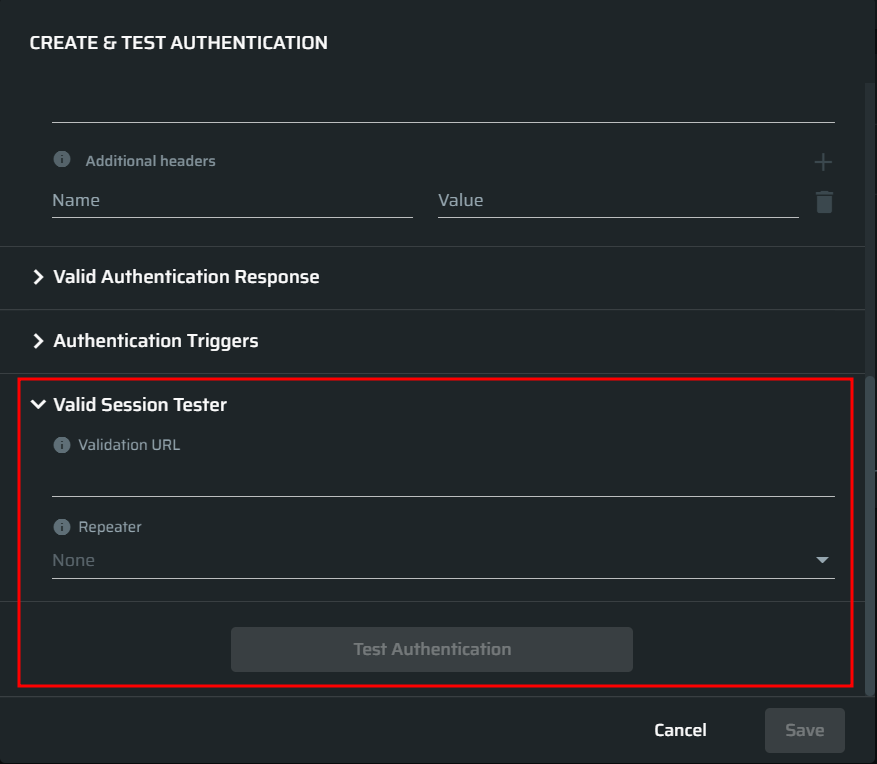
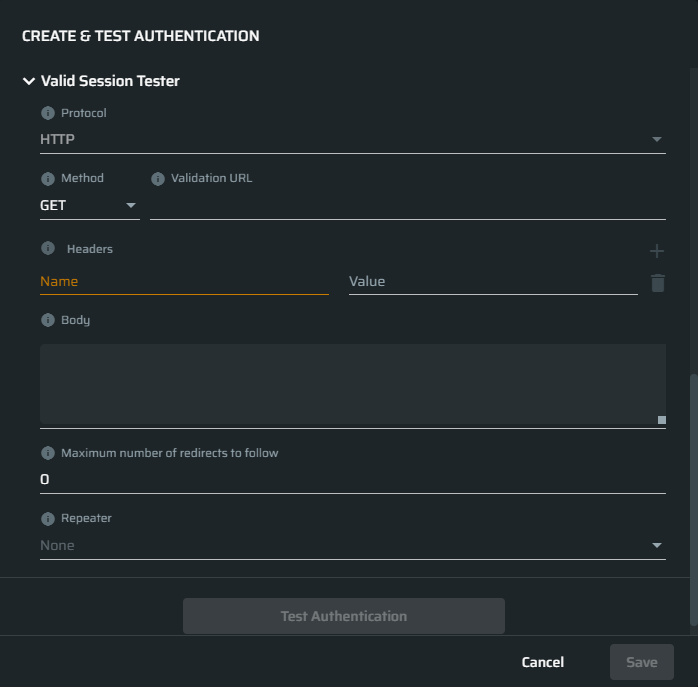
updated session tester

diff --git a/docs/guide/np-web-ui/scanning/managing-authentications/types/custom-auth.md b/docs/guide/np-web-ui/scanning/managing-authentications/types/custom-auth.md
@@ -213,8 +213,7 @@ In this section, select the options you want to use during the application scann
 
 The preliminary testing helps you verify if the authentication object has been configured correctly.
 
- ![test-authentication](../media/custom-session-tester.png ':size=45%') 
-
+ ![test-authentication](../media/test-authentication.png ':size=45%') 
 
 <table id="simple-table">
   <tr>
@@ -222,15 +221,51 @@ The preliminary testing helps you verify if the authentication object has been c
     <th width="75%"><b>Guidelines</b></th>
   </tr>
   <tr>
-    <td width="25%"><b>Validation URL </b></td>
+    <td width="25%"><b>Protocol </b></td>
     <td width="75%" >
-       Enter the URL of the authenticated resource to be accessed by NexPloit. 
+       Currently only the HTTP protocol is supported. 
     </td>
   </tr>
   <tr>
-    <td width="25%"><b>Repeater  </b></td>
+    <td width="25%"><b>Method </b></td>
     <td width="75%" >
-       If you use a local Repeater to reach the scan target, from the <b>Repeater</b> dropdown list, select the Repeater you need for the scan.   
+       Select the HTTP method of an active tester end-point (authenticated resource). 
+    </td>
+  </tr>
+  <tr>
+    <td width="25%"><b>Validation URL </b></td>
+    <td width="75%" >
+       Enter the URL of the authenticated (protected) resource to test if the authentication scenario is configured correctly. The validation URL should be different from the authentication URL.   
+    </td>
+  </tr>
+  <tr>
+    <td width="25%"><b>Header name </b></td>
+    <td width="75%" >
+       Select an additional header to be appended to the request sent to the tester end-point. 
+    </td>
+  </tr>
+  <tr>
+    <td width="25%"><b>Header value </b></td>
+    <td width="75%" >
+       Enter the template of the expected value (interpolation string) created using the <a href="/#/guide/np-web-ui/scanning/managing-authentications/syntax.md">String Interpolation Syntax</a>.   
+    </td>
+  </tr>
+  <tr>
+    <td width="25%"><b>Body </b></td>
+    <td width="75%" >    
+       Enter the HTTP request body to be appended to the request sent to the tester end-point, for example:{“user”: “foo”, “pass”: “bar”}’. You can interpolate the body using the <a href="/#/guide/np-web-ui/scanning/managing-authentications/syntax.md">String Interpolation Syntax</a>.   
+    </td>
+  </tr>
+  <tr>
+    <td width="25%"><b>Maximum number of redirects to follow </b></td>
+    <td width="75%" >
+       Enter the maximum number of redirections that Nexploit should follow during the authentication process.   
+    </td>
+  </tr>
+   <tr>
+    <td width="25%"><b>Repeater </b></td>
+    <td width="75%" >
+       If you use a local Repeater to reach the scan target, select it from the drop-down list to connect it to the scan.   
     </td>
   </tr>
   </table>

diff --git a/docs/guide/np-web-ui/scanning/managing-authentications/types/header-authentication.md b/docs/guide/np-web-ui/scanning/managing-authentications/types/header-authentication.md
@@ -117,8 +117,7 @@ In this section, select the options you want to use during the application scann
 
 The preliminary testing helps you verify if the authentication object has been configured correctly.
 
-  ![test-authentication](../media/header-testing.png ':size=45%')
-
+  ![test-authentication](../media/test-authentication.png ':size=45%') 
 
 <table id="simple-table">
   <tr>
@@ -126,15 +125,51 @@ The preliminary testing helps you verify if the authentication object has been c
     <th width="75%"><b>Guidelines</b></th>
   </tr>
   <tr>
-    <td width="25%"><b>Validation URL </b></td>
+    <td width="25%"><b>Protocol </b></td>
     <td width="75%" >
-       Enter the URL of the authenticated resource to be accessed by NexPloit. 
+       Currently only the HTTP protocol is supported. 
     </td>
   </tr>
   <tr>
-    <td width="25%"><b>Repeater  </b></td>
+    <td width="25%"><b>Method </b></td>
     <td width="75%" >
-       If you use a local Repeater to reach the scan target, from the <b>Repeater</b> dropdown list, select the Repeater you need for the scan.   
+       Select the HTTP method of an active tester end-point (authenticated resource). 
+    </td>
+  </tr>
+  <tr>
+    <td width="25%"><b>Validation URL </b></td>
+    <td width="75%" >
+       Enter the URL of the authenticated (protected) resource to test if the authentication scenario is configured correctly. The validation URL should be different from the authentication URL.   
+    </td>
+  </tr>
+  <tr>
+    <td width="25%"><b>Header name </b></td>
+    <td width="75%" >
+       Select an additional header to be appended to the request sent to the tester end-point. 
+    </td>
+  </tr>
+  <tr>
+    <td width="25%"><b>Header value </b></td>
+    <td width="75%" >
+       Enter the template of the expected value (interpolation string) created using the <a href="/#/guide/np-web-ui/scanning/managing-authentications/syntax.md">String Interpolation Syntax</a>.   
+    </td>
+  </tr>
+  <tr>
+    <td width="25%"><b>Body </b></td>
+    <td width="75%" >    
+       Enter the HTTP request body to be appended to the request sent to the tester end-point, for example:{“user”: “foo”, “pass”: “bar”}’. You can interpolate the body using the <a href="/#/guide/np-web-ui/scanning/managing-authentications/syntax.md">String Interpolation Syntax</a>.   
+    </td>
+  </tr>
+  <tr>
+    <td width="25%"><b>Maximum number of redirects to follow </b></td>
+    <td width="75%" >
+       Enter the maximum number of redirections that Nexploit should follow during the authentication process.   
+    </td>
+  </tr>
+   <tr>
+    <td width="25%"><b>Repeater </b></td>
+    <td width="75%" >
+       If you use a local Repeater to reach the scan target, select it from the drop-down list to connect it to the scan.   
     </td>
   </tr>
   </table>

diff --git a/docs/guide/np-web-ui/scanning/managing-authentications/types/openid-connect.md b/docs/guide/np-web-ui/scanning/managing-authentications/types/openid-connect.md
@@ -190,8 +190,7 @@ In this section, select the options you want to use during the application scann
 
 The preliminary testing helps you verify if the authentication object has been configured correctly.
 
- ![test-authentication](../media/test-open-id.png ':size=45%') 
-
+ ![test-authentication](../media/test-authentication.png ':size=45%') 
 
 <table id="simple-table">
   <tr>
@@ -199,15 +198,51 @@ The preliminary testing helps you verify if the authentication object has been c
     <th width="75%"><b>Guidelines</b></th>
   </tr>
   <tr>
-    <td width="25%"><b>Validation URL </b></td>
+    <td width="25%"><b>Protocol </b></td>
     <td width="75%" >
-       Enter the URL of the authenticated resource to be accessed by NexPloit. 
+       Currently only the HTTP protocol is supported. 
     </td>
   </tr>
   <tr>
-    <td width="25%"><b>Repeater  </b></td>
+    <td width="25%"><b>Method </b></td>
     <td width="75%" >
-       If you use a local Repeater to reach the scan target, from the <b>Repeater</b> dropdown list, select the Repeater you need for the scan.   
+       Select the HTTP method of an active tester end-point (authenticated resource). 
+    </td>
+  </tr>
+  <tr>
+    <td width="25%"><b>Validation URL </b></td>
+    <td width="75%" >
+       Enter the URL of the authenticated (protected) resource to test if the authentication scenario is configured correctly. The validation URL should be different from the authentication URL.   
+    </td>
+  </tr>
+  <tr>
+    <td width="25%"><b>Header name </b></td>
+    <td width="75%" >
+       Select an additional header to be appended to the request sent to the tester end-point. 
+    </td>
+  </tr>
+  <tr>
+    <td width="25%"><b>Header value </b></td>
+    <td width="75%" >
+       Enter the template of the expected value (interpolation string) created using the <a href="/#/guide/np-web-ui/scanning/managing-authentications/syntax.md">String Interpolation Syntax</a>.   
+    </td>
+  </tr>
+  <tr>
+    <td width="25%"><b>Body </b></td>
+    <td width="75%" >    
+       Enter the HTTP request body to be appended to the request sent to the tester end-point, for example:{“user”: “foo”, “pass”: “bar”}’. You can interpolate the body using the <a href="/#/guide/np-web-ui/scanning/managing-authentications/syntax.md">String Interpolation Syntax</a>.   
+    </td>
+  </tr>
+  <tr>
+    <td width="25%"><b>Maximum number of redirects to follow </b></td>
+    <td width="75%" >
+       Enter the maximum number of redirections that Nexploit should follow during the authentication process.   
+    </td>
+  </tr>
+   <tr>
+    <td width="25%"><b>Repeater </b></td>
+    <td width="75%" >
+       If you use a local Repeater to reach the scan target, select it from the drop-down list to connect it to the scan.   
     </td>
   </tr>
   </table>

diff --git a/docs/guide/np-web-ui/scanning/managing-authentications/types/api-call.md b/docs/guide/np-web-ui/scanning/managing-authentications/types/api-call.md
@@ -260,22 +260,57 @@ The preliminary testing helps you verify if the authentication object has been c
 
  ![test-authentication](../media/test-authentication.png ':size=45%') 
 
-
 <table id="simple-table">
   <tr>
     <th width="25%"><b>Field</b></th>
     <th width="75%"><b>Guidelines</b></th>
   </tr>
   <tr>
-    <td width="25%"><b>Validation URL </b></td>
+    <td width="25%"><b>Protocol </b></td>
     <td width="75%" >
-       Enter the URL of the authenticated resource to be accessed by NexPloit. 
+       Currently only the HTTP protocol is supported. 
     </td>
   </tr>
   <tr>
-    <td width="25%"><b>Repeater  </b></td>
+    <td width="25%"><b>Method </b></td>
     <td width="75%" >
-       If you use a local Repeater to reach the scan target, from the <b>Repeater</b> dropdown list, select the Repeater you need for the scan.   
+       Select the HTTP method of an active tester end-point (authenticated resource). 
+    </td>
+  </tr>
+  <tr>
+    <td width="25%"><b>Validation URL </b></td>
+    <td width="75%" >
+       Enter the URL of the authenticated (protected) resource to test if the authentication scenario is configured correctly. The validation URL should be different from the authentication URL.   
+    </td>
+  </tr>
+  <tr>
+    <td width="25%"><b>Header name </b></td>
+    <td width="75%" >
+       Select an additional header to be appended to the request sent to the tester end-point. 
+    </td>
+  </tr>
+  <tr>
+    <td width="25%"><b>Header value </b></td>
+    <td width="75%" >
+       Enter the template of the expected value (interpolation string) created using the <a href="/#/guide/np-web-ui/scanning/managing-authentications/syntax.md">String Interpolation Syntax</a>.   
+    </td>
+  </tr>
+  <tr>
+    <td width="25%"><b>Body </b></td>
+    <td width="75%" >    
+       Enter the HTTP request body to be appended to the request sent to the tester end-point, for example:{“user”: “foo”, “pass”: “bar”}’. You can interpolate the body using the <a href="/#/guide/np-web-ui/scanning/managing-authentications/syntax.md">String Interpolation Syntax</a>.   
+    </td>
+  </tr>
+  <tr>
+    <td width="25%"><b>Maximum number of redirects to follow </b></td>
+    <td width="75%" >
+       Enter the maximum number of redirections that Nexploit should follow during the authentication process.   
+    </td>
+  </tr>
+   <tr>
+    <td width="25%"><b>Repeater </b></td>
+    <td width="75%" >
+       If you use a local Repeater to reach the scan target, select it from the drop-down list to connect it to the scan.   
     </td>
   </tr>
   </table>

diff --git a/docs/guide/np-web-ui/scanning/managing-authentications/types/form-authentication.md b/docs/guide/np-web-ui/scanning/managing-authentications/types/form-authentication.md
@@ -189,15 +189,51 @@ The preliminary testing helps you verify if the authentication object has been c
     <th width="75%"><b>Guidelines</b></th>
   </tr>
   <tr>
-    <td width="25%"><b>Validation URL </b></td>
+    <td width="25%"><b>Protocol </b></td>
     <td width="75%" >
-       Enter the URL of the authenticated resource to be accessed by NexPloit. 
+       Currently only the HTTP protocol is supported. 
     </td>
   </tr>
   <tr>
-    <td width="25%"><b>Repeater  </b></td>
+    <td width="25%"><b>Method </b></td>
     <td width="75%" >
-       If you use a local Repeater to reach the scan target, from the <b>Repeater</b> dropdown list, select the Repeater you need for the scan.   
+       Select the HTTP method of an active tester end-point (authenticated resource). 
+    </td>
+  </tr>
+  <tr>
+    <td width="25%"><b>Validation URL </b></td>
+    <td width="75%" >
+       Enter the URL of the authenticated (protected) resource to test if the authentication scenario is configured correctly. The validation URL should be different from the authentication URL.   
+    </td>
+  </tr>
+  <tr>
+    <td width="25%"><b>Header name </b></td>
+    <td width="75%" >
+       Select an additional header to be appended to the request sent to the tester end-point. 
+    </td>
+  </tr>
+  <tr>
+    <td width="25%"><b>Header value </b></td>
+    <td width="75%" >
+       Enter the template of the expected value (interpolation string) created using the <a href="/#/guide/np-web-ui/scanning/managing-authentications/syntax.md">String Interpolation Syntax</a>.   
+    </td>
+  </tr>
+  <tr>
+    <td width="25%"><b>Body </b></td>
+    <td width="75%" >    
+       Enter the HTTP request body to be appended to the request sent to the tester end-point, for example:{“user”: “foo”, “pass”: “bar”}’. You can interpolate the body using the <a href="/#/guide/np-web-ui/scanning/managing-authentications/syntax.md">String Interpolation Syntax</a>.   
+    </td>
+  </tr>
+  <tr>
+    <td width="25%"><b>Maximum number of redirects to follow </b></td>
+    <td width="75%" >
+       Enter the maximum number of redirections that Nexploit should follow during the authentication process.   
+    </td>
+  </tr>
+   <tr>
+    <td width="25%"><b>Repeater </b></td>
+    <td width="75%" >
+       If you use a local Repeater to reach the scan target, select it from the drop-down list to connect it to the scan.   
     </td>
   </tr>
   </table>
